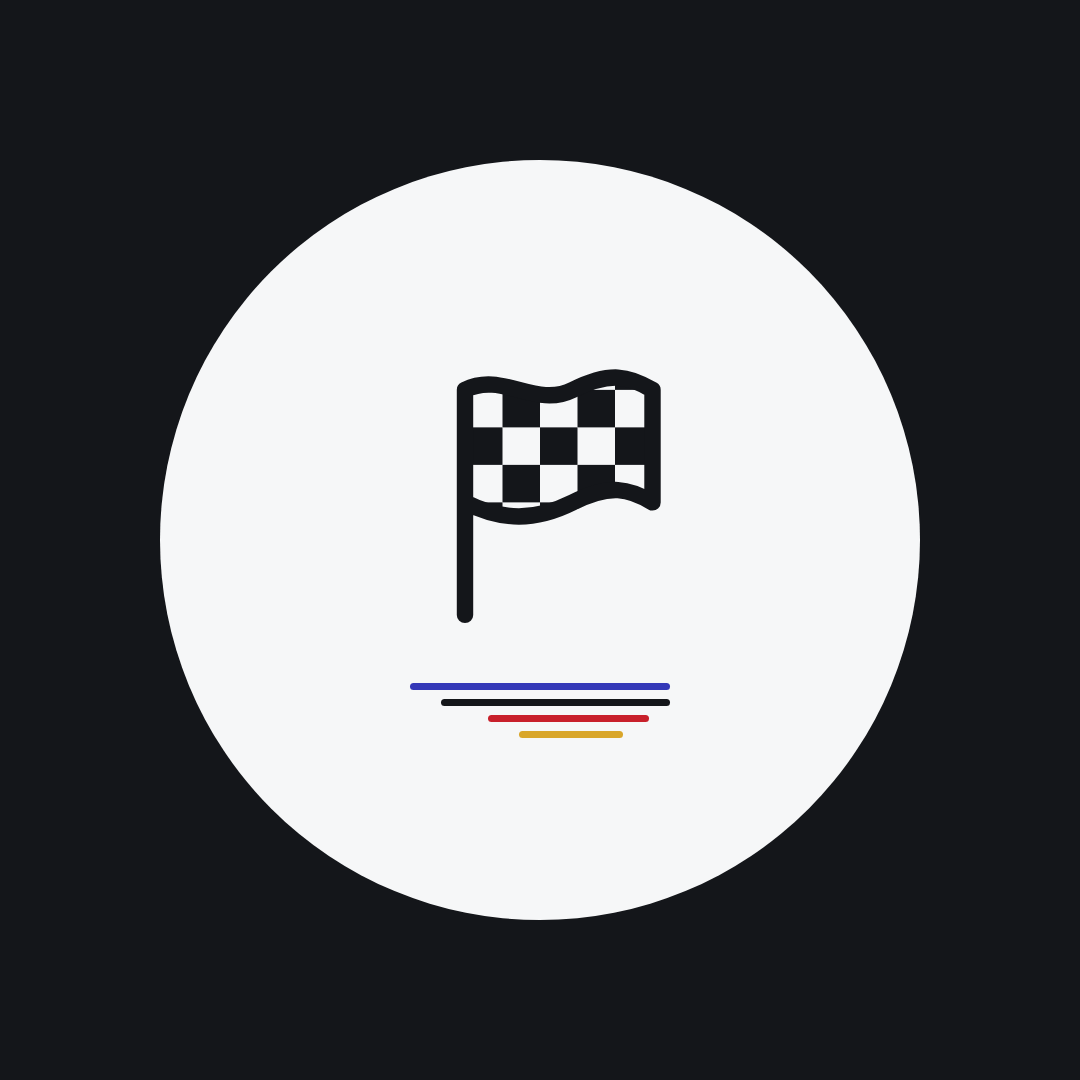
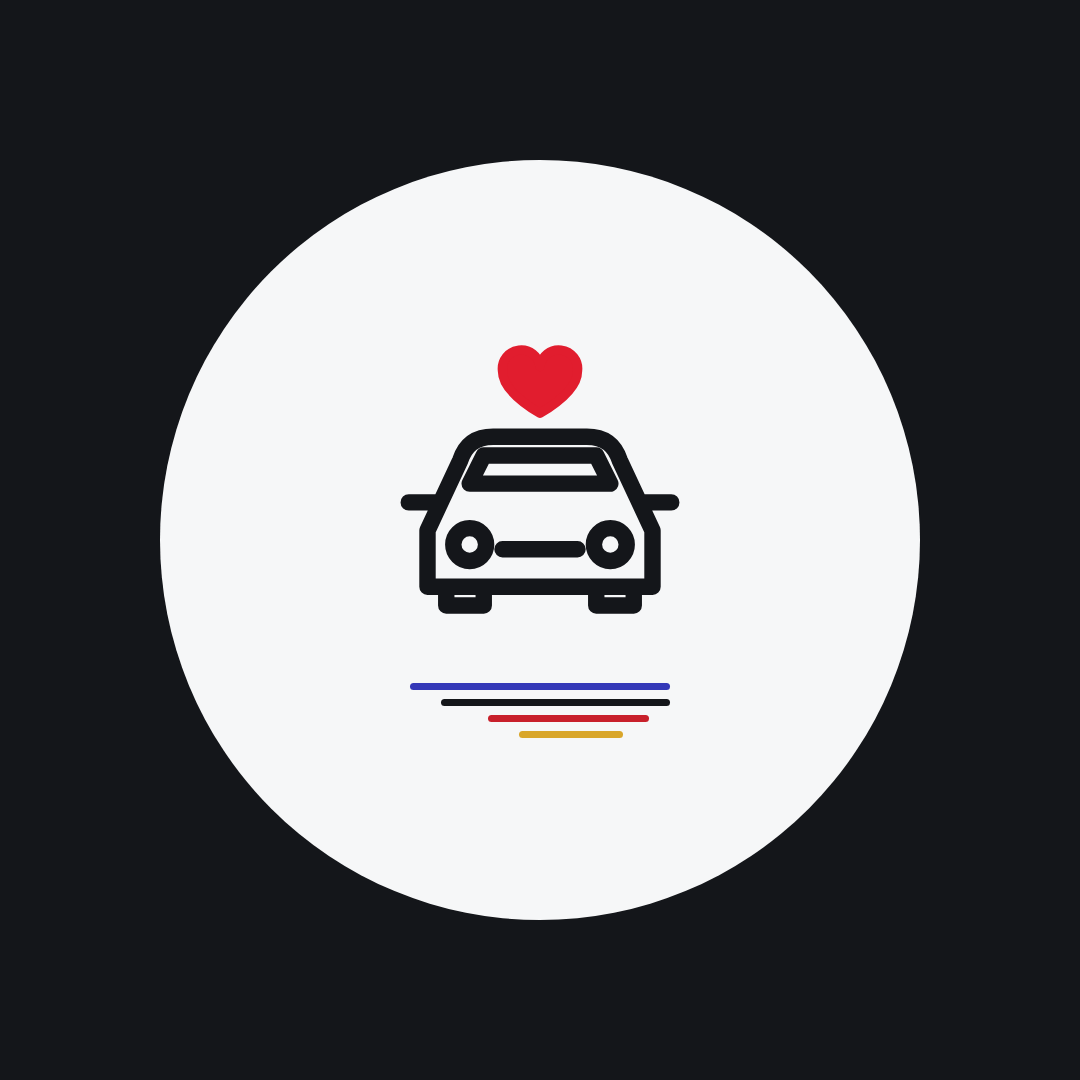
Destacada Car culture: carro de frente con corazón (la bandera parecía racing)
Claude-Session: https://claude.ai/code/session_01Waia73eHNWtSrif5AzmwHD

Changed region(s): [[0.3667, 0.3056, 0.6417, 0.5806]]

diff --git a/herramientas/build/generar-posts.js b/herramientas/build/generar-posts.js
@@ -88,7 +88,7 @@ const DESTACADAS = [
   ["guias", "Guías", "M14 8h28l10 10v38H14zm28 0v10h10M22 30h20m-20 10h20"],
   ["como-trabajamos", "Cómo trabajamos", "M28 12a16 16 0 1 0 0 32 16 16 0 0 0 0-32zm12 28 14 14"],
   ["detailing", "Detailing", '<path transform="matrix(-1 0 0 1 64 3)" d="M12 18h38a6 6 0 0 1 0 12H12zm24 4v4m5-4v4m5-4v4M12 30h18v6H12zM6 40h30a2 2 0 0 1 2 2v4a2 2 0 0 1-2 2H6a2 2 0 0 1-2-2v-4a2 2 0 0 1 2-2zm3-4h24M16 18v-6h10v6m30 6c4 0 6 3 6 8v6M52 4c0 4 1 5 5 5-4 0-5 1-5 5 0-4-1-5-5-5 4 0 5-1 5-5z"/>'],
-  ["car-culture", "Car culture", '<defs><clipPath id="cc"><path d="M16 10c8-4 15 4 23 0s12-3 17 0v24c-5-3-9-4-17 0s-15 4-23 0z"/></clipPath></defs><g clip-path="url(#cc)" fill="#14161a" stroke="none"><rect x="16" y="2" width="8" height="8"/><rect x="16" y="18" width="8" height="8"/><rect x="16" y="34" width="8" height="8"/><rect x="24" y="10" width="8" height="8"/><rect x="24" y="26" width="8" height="8"/><rect x="32" y="2" width="8" height="8"/><rect x="32" y="18" width="8" height="8"/><rect x="32" y="34" width="8" height="8"/><rect x="40" y="10" width="8" height="8"/><rect x="40" y="26" width="8" height="8"/><rect x="48" y="2" width="8" height="8"/><rect x="48" y="18" width="8" height="8"/><rect x="48" y="34" width="8" height="8"/></g><path d="M16 10c8-4 15 4 23 0s12-3 17 0v24c-5-3-9-4-17 0s-15 4-23 0zM16 10v48"/>'],
+  ["car-culture", "Car culture", '<path d="M32 15c-5-3-8-6-8-9a4 4 0 0 1 8-1 4 4 0 0 1 8 1c0 3-3 6-8 9z" fill="#e11d2e" stroke="#e11d2e" stroke-width="2"/><path d="M8 40l7-15c1-3 3-5 7-5h20c4 0 6 2 7 5l7 15v12H8zm9-10 3-6h24l3 6zM4 34h6m44 0h6M24 44h16M12 52v4h8v-4m24 0v4h8v-4"/><circle cx="17" cy="43" r="3.5"/><circle cx="47" cy="43" r="3.5"/>'],
   ["proyectos", "Proyectos", '<svg viewBox="0 0 100 64"><g fill="none" stroke="#14161a" stroke-width="3" stroke-linecap="round" stroke-linejoin="round"><path d="M6 48V38l2-3h14l10-11h26l9 10 19 3 8 3v5l-3 3h-7a8 8 0 0 0-16 0H32a8 8 0 0 0-16 0z"/><path d="M27 34l7-7h11v7z"/><path d="M49 34v-7h8l6 7z"/><path d="M3 27h20M8 27l1 8M18 27l-1 8"/><circle cx="24" cy="48" r="5.6"/><circle cx="76" cy="48" r="5.6"/><circle cx="24" cy="48" r="1.2" fill="#14161a"/><circle cx="76" cy="48" r="1.2" fill="#14161a"/><g transform="translate(74 3) scale(.92)" stroke-width="3.26"><path d="M14.7 6.3a1 1 0 0 0 0 1.4l1.6 1.6a1 1 0 0 0 1.4 0l3.77-3.77a6 6 0 0 1-7.94 7.94l-6.91 6.91a2.12 2.12 0 0 1-3-3l6.91-6.91a6 6 0 0 1 7.94-7.94l-3.76 3.76z"/></g></g></svg>'],
 ];
 
